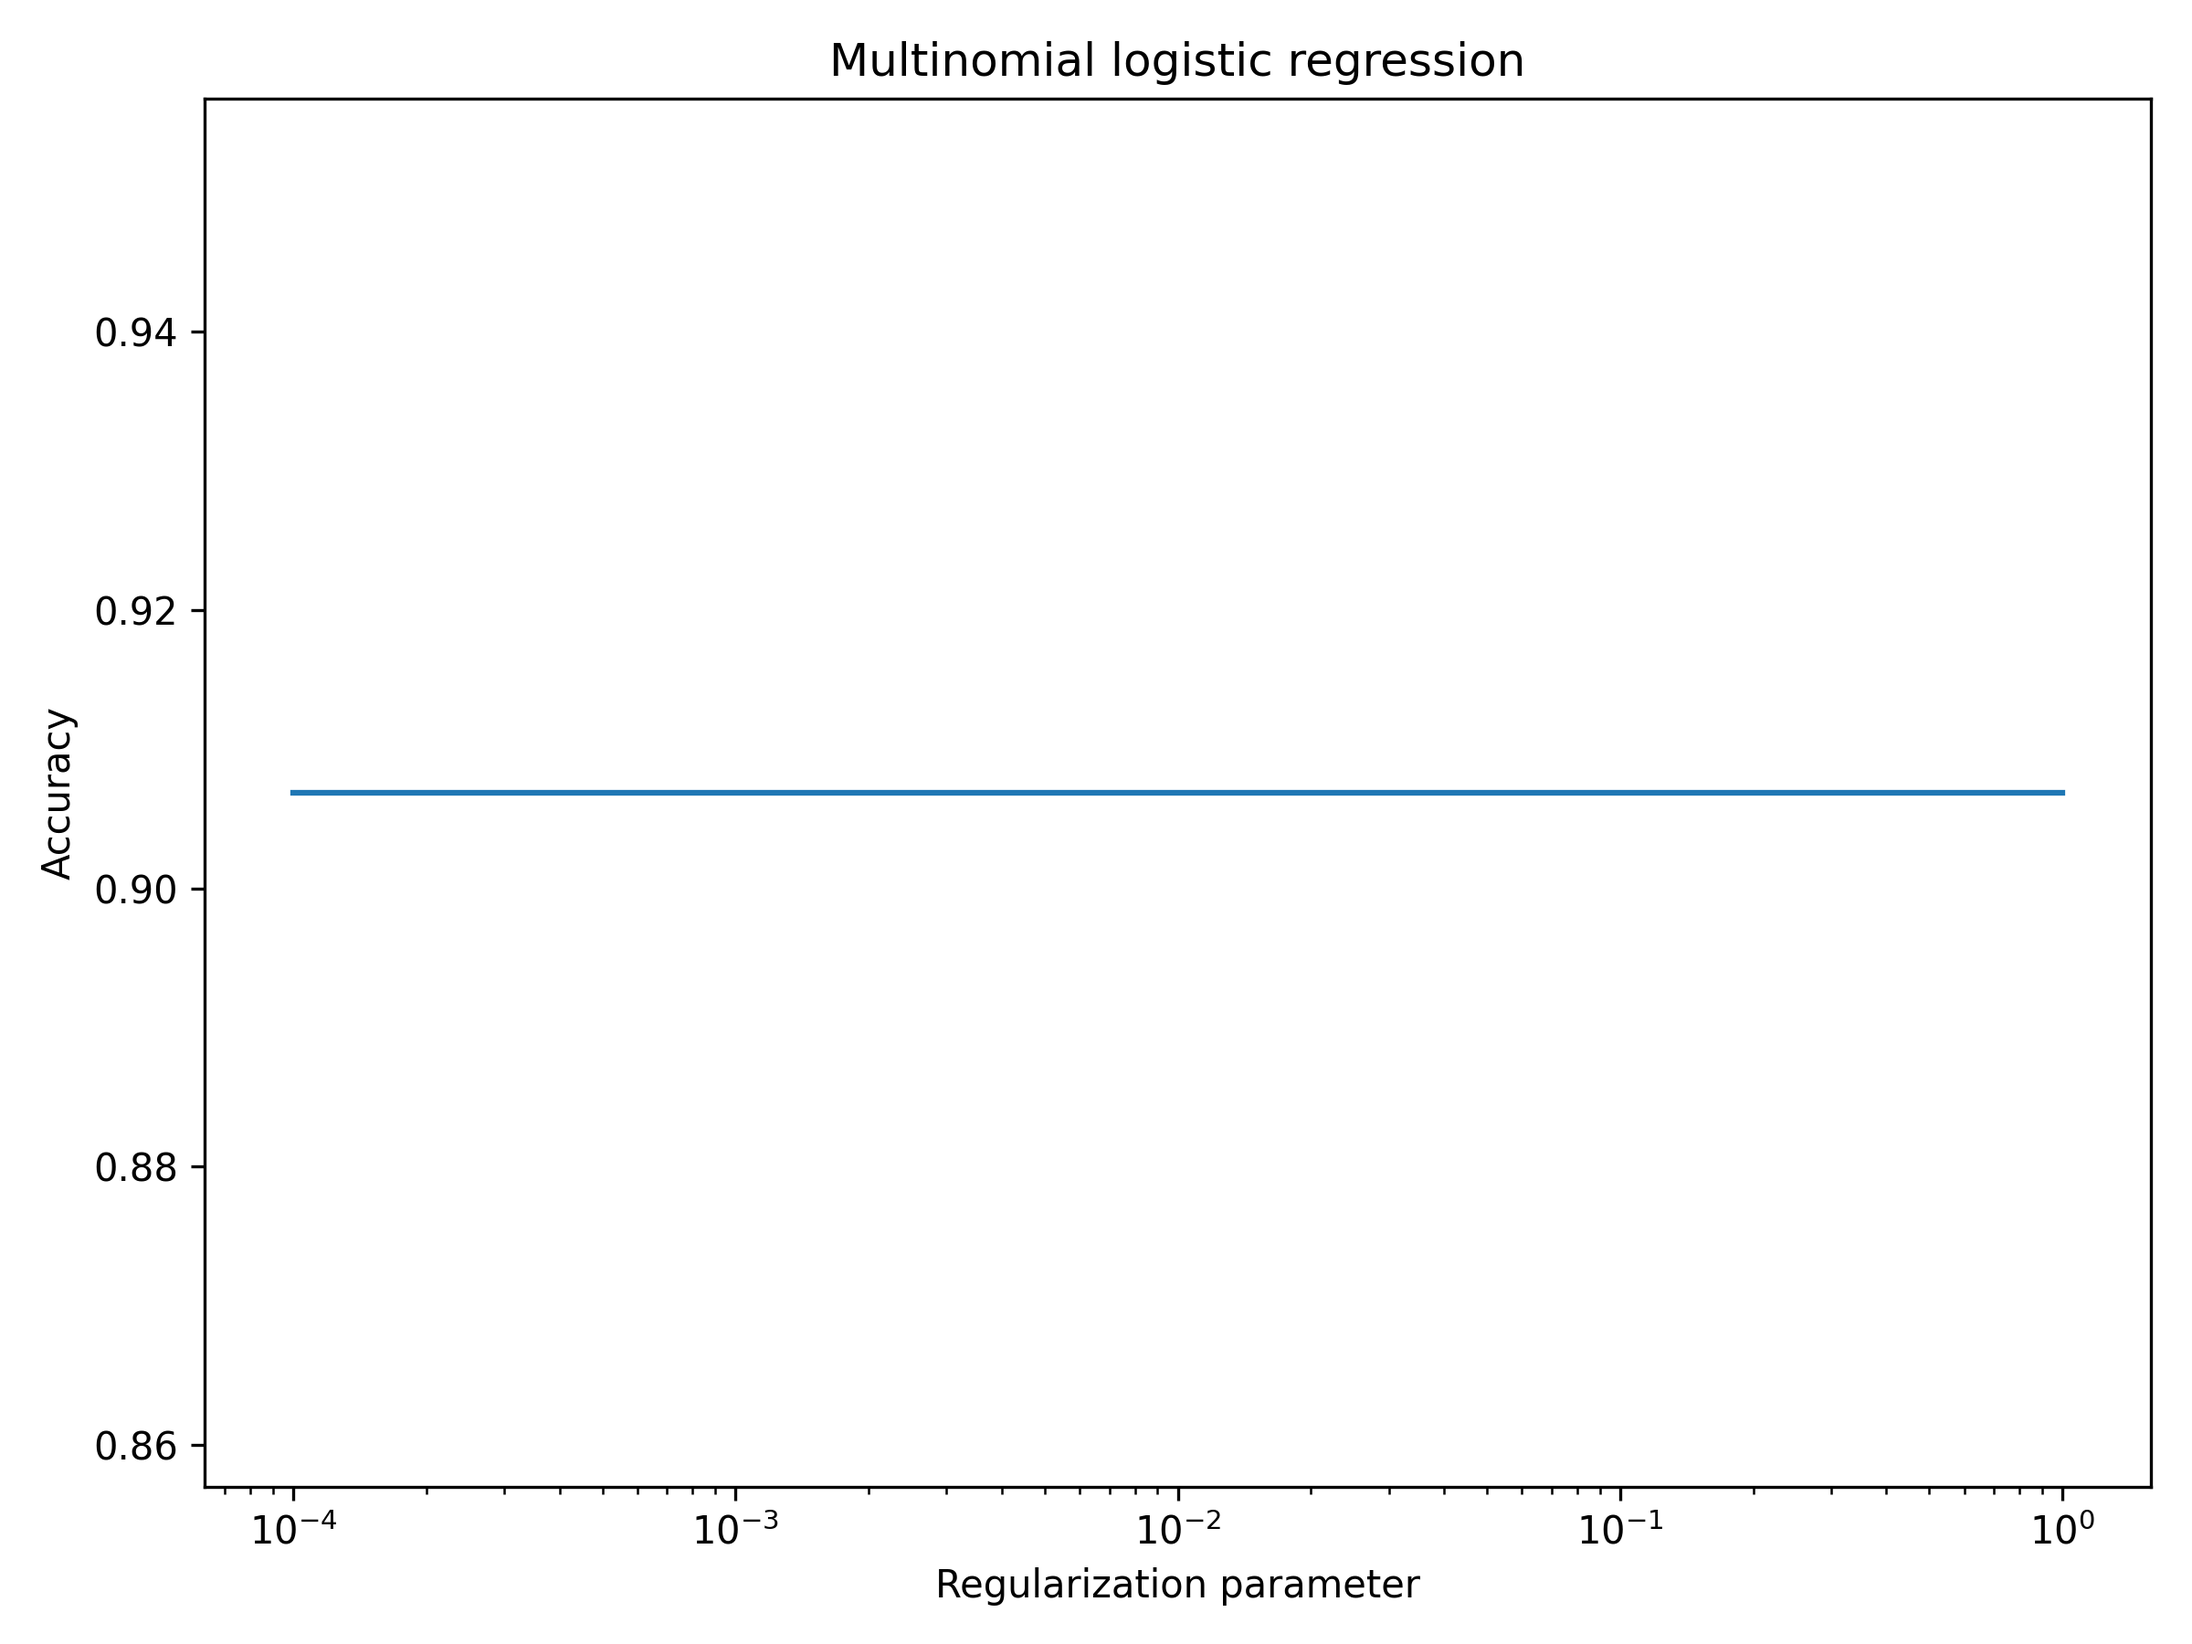
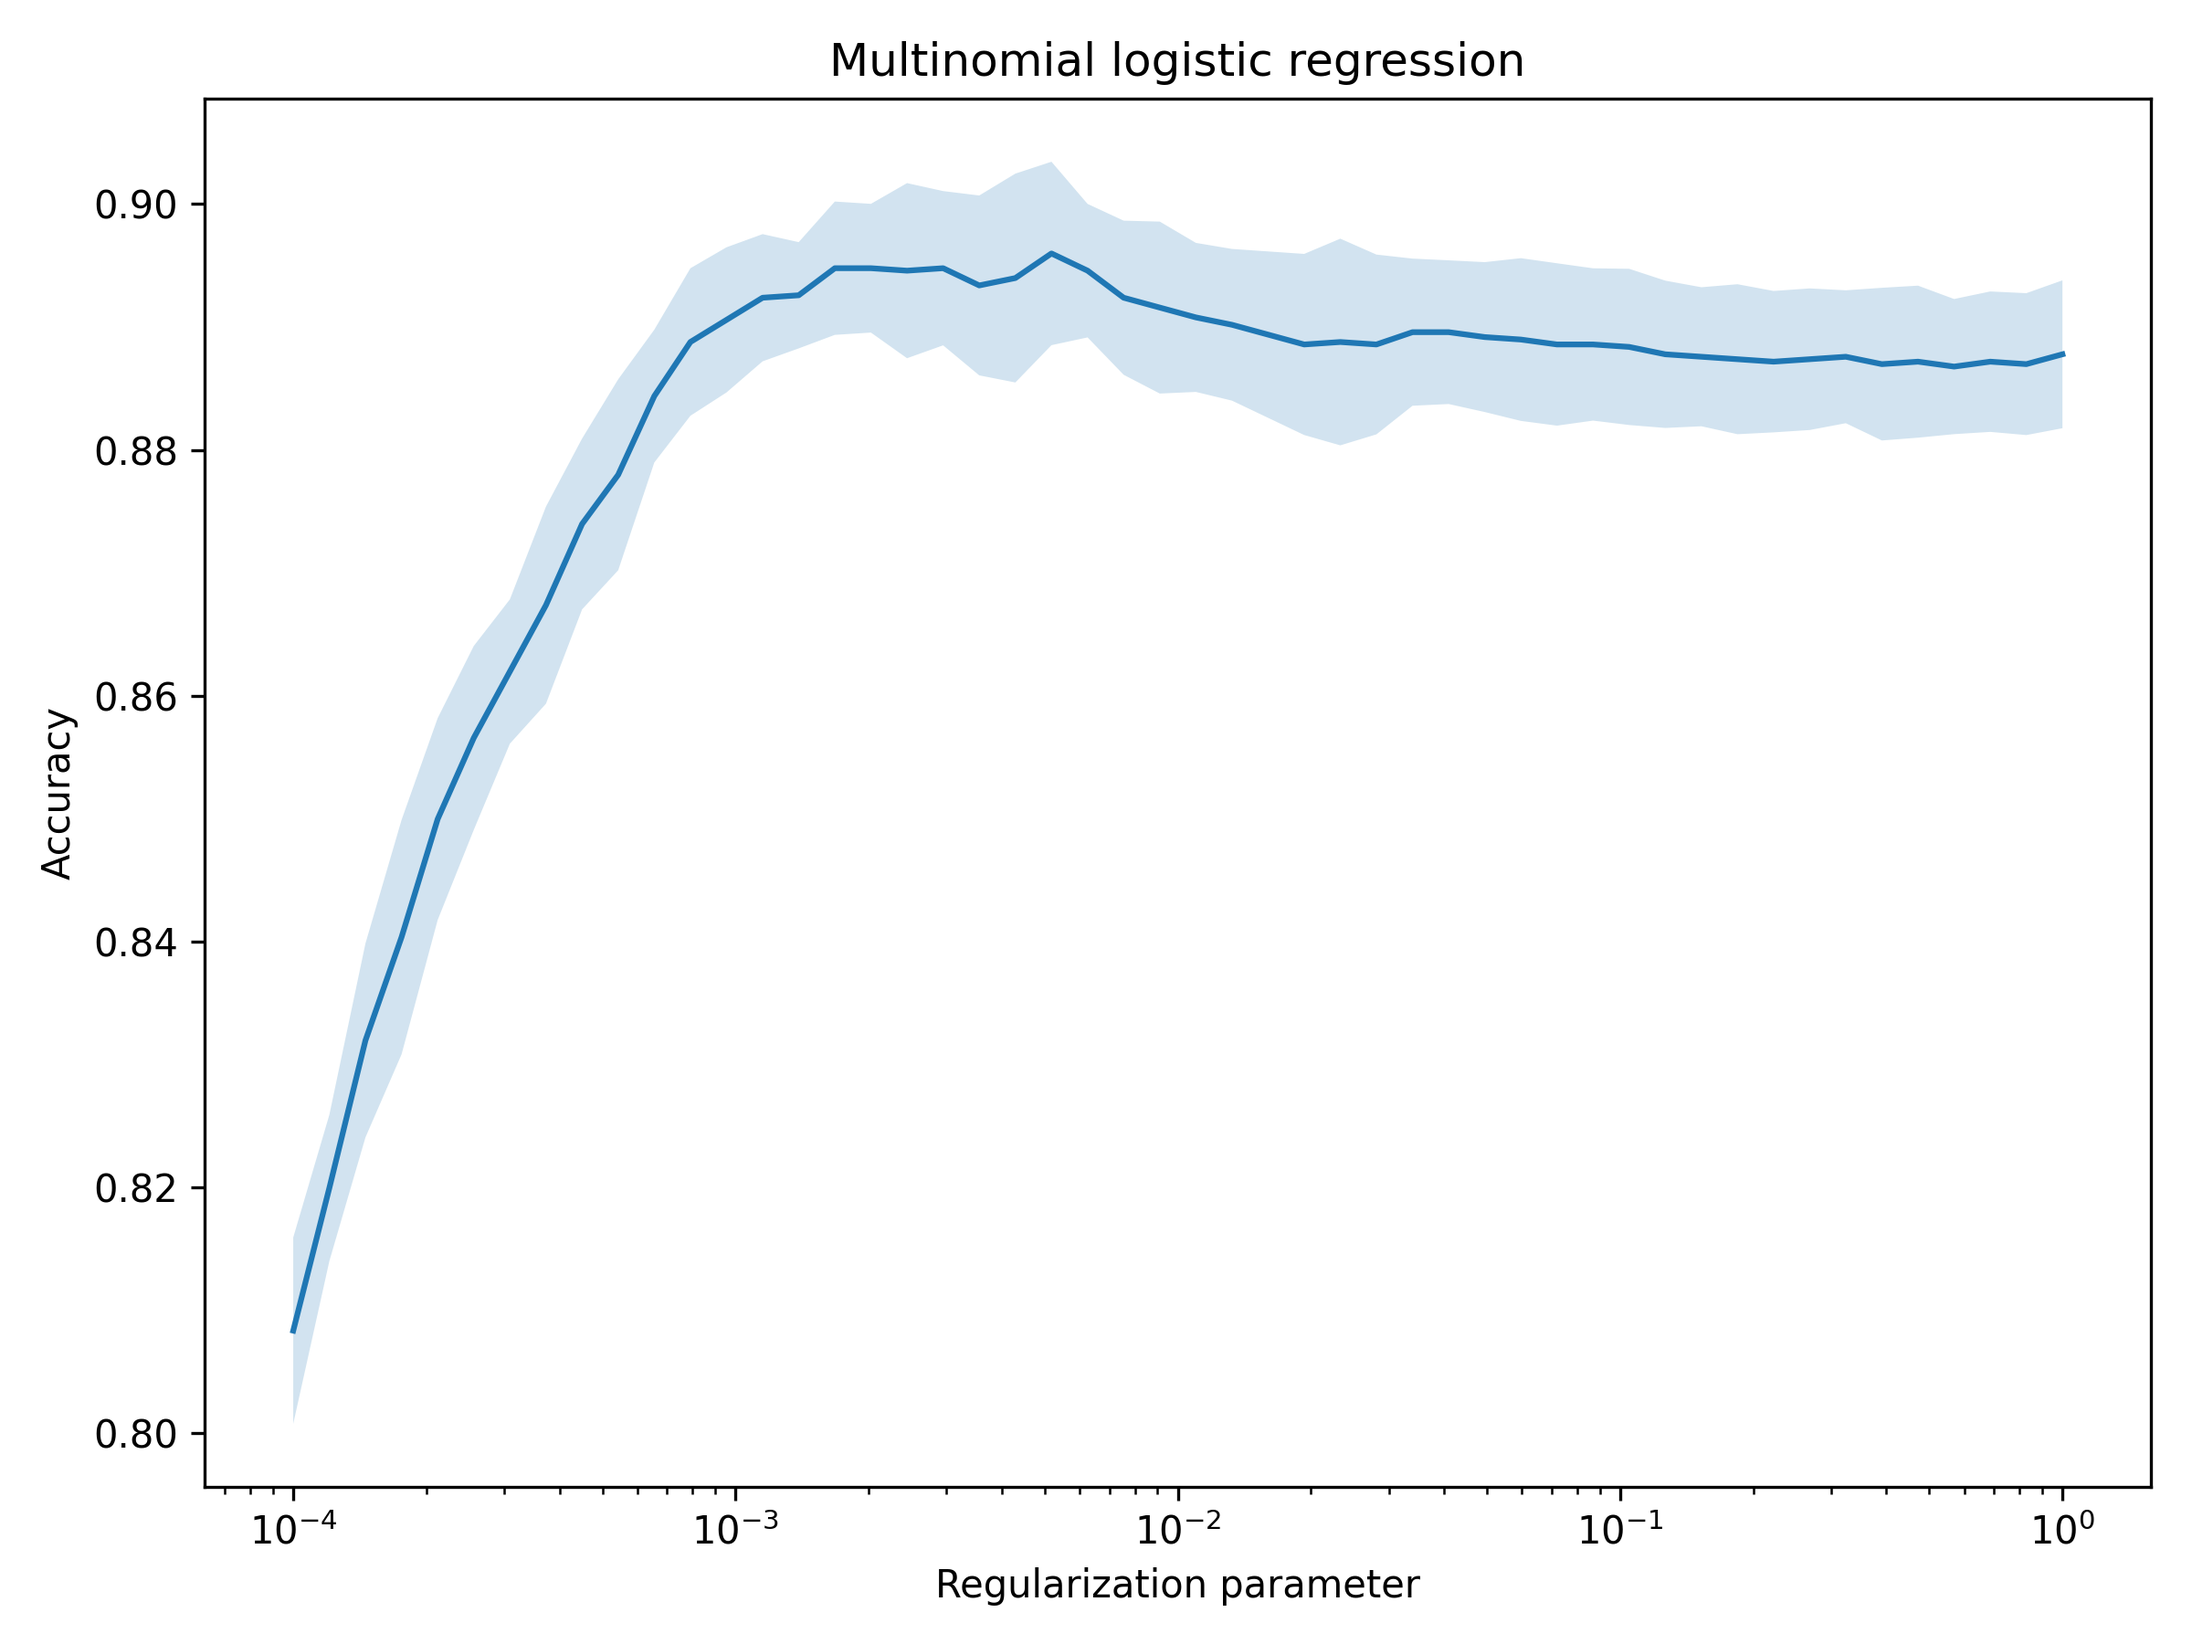
Ran logit on many different parameters

diff --git a/fit-logit.py b/fit-logit.py
@@ -4,10 +4,10 @@ import matplotlib.pyplot as plt
 from sklearn.linear_model import LogisticRegression
 import multiprocessing as mp
 
+from sklearn.model_selection import cross_val_score
+
 
 def fit_logit(param):
-    test_digits = pd.read_csv("data/test_digits.csv").values
-    test_labels = pd.read_csv("data/test_labels.csv").values
     train_digits = pd.read_csv("data/train_digits.csv").values
     train_labels = pd.read_csv("data/train_labels.csv").values
     logit = LogisticRegression(
@@ -15,30 +15,52 @@ def fit_logit(param):
         penalty="l1",
         solver="saga",
         multi_class="multinomial",
-        max_iter=300,
+        max_iter=500,
         verbose=2,
     )
-    logit.fit(train_digits, train_labels.ravel())
-    score = logit.score(test_digits, test_labels)
-    print("done fitting param: ", param, " score: ", score)
-    return score
+    # Get cross-validated accuracy, recall and precision
+    scores = cross_val_score(logit, train_digits, train_labels.ravel(), cv=5)
+
+    mean_score = np.mean(scores)
+    std_score = np.std(scores)
+
+    return mean_score, std_score
 
 
 def main():
     # Fit multinomial logistic regression with LASSO penalty
     # Use cross-validation to select regularization parameter
     # Use all cores available
-    param_space = np.logspace(-4, 0, 30)
+    param_space = np.logspace(-4, 0, 50)
 
     with mp.Pool(processes=mp.cpu_count()) as pool:
         scores = pool.map(fit_logit, param_space)
 
+        (
+            mean_accuracy,
+            std_accuracy,
+        ) = zip(*scores)
+        dataframe = pd.DataFrame(
+            {
+                "param": param_space,
+                "mean_accuracy": mean_accuracy,
+                "std_accuracy": std_accuracy,
+            }
+        )
         # save scores
-        np.savetxt("multinomial-scores.csv", scores, delimiter=",")
+        dataframe.to_csv("logit-lasso-scores.csv", index=False)
 
     # Plot scores
     plt.figure(figsize=(8, 6), dpi=300)
-    plt.plot(param_space, scores)
+    plt.plot(param_space, mean_accuracy)
+
+    # Plot error bars showing standard deviation with fill
+    plt.fill_between(
+        param_space,
+        np.array(mean_accuracy) - np.array(std_accuracy),
+        np.array(mean_accuracy) + np.array(std_accuracy),
+        alpha=0.2,
+    )
     plt.xscale("log")
     plt.xlabel("Regularization parameter")
     plt.ylabel("Accuracy")
